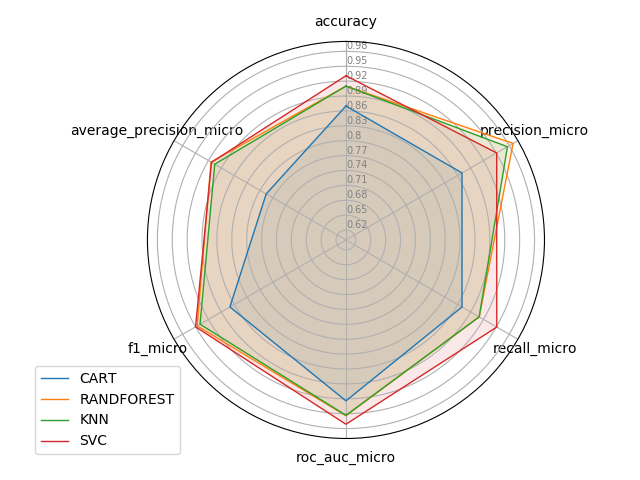
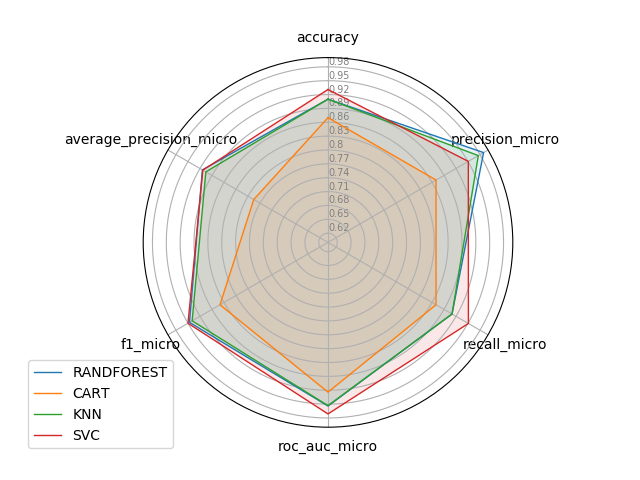
sembra andare tutto

Changed region(s): [[0.0312, 0.0312, 0.9375, 0.9688]]

diff --git a/training.py b/training.py
@@ -519,52 +519,52 @@ def training_classificator(X, Y, name_models, scoring, k=[5], list_n_trees=[10],
                                                            mean=mean)
         best_total_score = scoringUtils.hmean_scores(scoring, best_scores)
         for key, value in best_scores.items():
-            fl.writelines([str(key) + "_CART " + str(value) + "\n"])
-        fl.writelines(["total_score_CART " + str(best_total_score) + "\n"])
+            fl.writelines([str(key) + "_" + str(__init__.dec_tree) + " " + str(value) + "\n"])
+        fl.writelines(["total_score_" + str(__init__.dec_tree) + " " + str(best_total_score) + "\n"])
     if __init__.rand_forest in name_models:
         best_n_trees, best_max_features, best_scores, best_total_score = \
             RANDOMFOREST_training(X, Y, list_n_trees, scoring, seed, n_split, mean)
         fl.writelines(["best_n_trees " + str(best_n_trees) + "\n", "best_max_features " +
                        str(best_max_features) + "\n"])
         for key, value in best_scores.items():
-            fl.writelines([str(key) + "_RF " + str(value) + "\n"])
-        fl.writelines(["total_score_RF " + str(best_total_score) + "\n"])
+            fl.writelines([str(key) + "_" + str(__init__.rand_forest) + " " + str(value) + "\n"])
+        fl.writelines(["total_score_" + str(__init__.rand_forest) + " " + str(best_total_score) + "\n"])
     if __init__.knn in name_models:
         best_k, best_scores, best_total_score = KNN_training(X, Y, k, scoring, seed, n_split, mean)
         fl.writelines(["best_k " + str(best_k) + "\n"])
         for key, value in best_scores.items():
-            fl.writelines([str(key) + "_KNN " + str(value) + "\n"])
-        fl.writelines(["total_score_KNN " + str(best_total_score) + "\n"])
+            fl.writelines([str(key) + "_" + str(__init__.knn) + " " + str(value) + "\n"])
+        fl.writelines(["total_score_" + str(__init__.knn) + " " + str(best_total_score) + "\n"])
     if __init__.svc in name_models:
         best_C, best_degree, best_gamma, best_kernel, best_scores, best_total_score = \
             SVC_training(X, Y, scoring, seed, n_split, mean)
         fl.writelines(["best_C " + str(best_C) + "\n", "best_degree " + str(best_degree) + "\n", "best_gamma " +
                        str(best_gamma) + "\n", "best_kernel " + str(best_kernel) + "\n"])
         for key, value in best_scores.items():
-            fl.writelines([str(key) + "_SVC " + str(value) + "\n"])
-        fl.writelines(["total_score_SVC " + str(best_total_score) + "\n"])
-    if __init__.dec_tree in name_models:
+            fl.writelines([str(key) + "_" + str(__init__.svc) + " " + str(value) + "\n"])
+        fl.writelines(["total_score_" + str(__init__.svc) + " " + str(best_total_score) + "\n"])
+    if __init__.dec_tree_regressor in name_models:
         model = DecisionTreeRegressor(random_state=seed)
         best_scores = scoringUtils.K_Fold_Cross_validation(model, X, Y, scoring, seed=seed, n_split=n_split,
                                                            mean=mean)
         best_total_score = scoringUtils.hmean_scores(scoring, best_scores)
         for key, value in best_scores.items():
-            fl.writelines([str(key) + "_CARTRegr " + str(value) + "\n"])
-        fl.writelines(["total_score_CARTRegr " + str(best_total_score) + "\n"])
+            fl.writelines([str(key) + "_" + str(__init__.dec_tree_regressor) + " " + str(value) + "\n"])
+        fl.writelines(["total_score_" + str(__init__.dec_tree_regressor) + " " + str(best_total_score) + "\n"])
     if __init__.rand_forest_regressor in name_models:
         best_n_trees, best_max_features, best_scores, best_total_score = \
             RANDOMFORESTRegressor_training(X, Y, list_n_trees, scoring, seed, n_split, mean)
         fl.writelines(["best_n_trees " + str(best_n_trees) + "\n", "best_max_features " +
                        str(best_max_features) + "\n"])
         for key, value in best_scores.items():
-            fl.writelines([str(key) + "_RFRegr " + str(value) + "\n"])
-        fl.writelines(["total_score_RFRegr " + str(best_total_score) + "\n"])
+            fl.writelines([str(key) + "_" + str(__init__.rand_forest_regressor) + " " + str(value) + "\n"])
+        fl.writelines(["total_score_" + str(__init__.rand_forest_regressor) + " " + str(best_total_score) + "\n"])
     if __init__.knr in name_models:
         best_k, best_scores, best_total_score = KNR_training(X, Y, k, scoring, seed, n_split, mean)
         fl.writelines(["best_k " + str(best_k) + "\n"])
         for key, value in best_scores.items():
-            fl.writelines([str(key) + "_KNR " + str(value) + "\n"])
-        fl.writelines(["total_score_KNR " + str(best_total_score) + "\n"])
+            fl.writelines([str(key) + "_" + str(__init__.knr) + " " + str(value) + "\n"])
+        fl.writelines(["total_score_" + str(__init__.knr) + " " + str(best_total_score) + "\n"])
     if __init__.svr in name_models:
         best_C, best_eps, best_degree, best_gamma, best_kernel, best_scores, best_total_score = \
             SVR_training(X, Y, scoring, seed, n_split, mean)
@@ -572,8 +572,8 @@ def training_classificator(X, Y, name_models, scoring, k=[5], list_n_trees=[10],
                        str(best_degree) + "\n", "best_gamma " + str(best_gamma) + "\n", "best_kernel " +
                        str(best_kernel) + "\n"])
         for key, value in best_scores.items():
-            fl.writelines([str(key) + "_SVR " + str(value) + "\n"])
-        fl.writelines(["total_score_SVR " + str(best_total_score) + "\n"])
+            fl.writelines([str(key) + "_" + str(__init__.svr) + " " + str(value) + "\n"])
+        fl.writelines(["total_score_" + str(__init__.svr) + " " + str(best_total_score) + "\n"])
 
     fl.close()
 
@@ -644,7 +644,7 @@ def build_models(name_models, file_name):
     return models
 
 
-def read_best_scores(name_models, file_name):
+def read_setting(file_name):
     """
     Return the best scoring of a test
     :param name_models:
@@ -654,51 +654,17 @@ def read_best_scores(name_models, file_name):
 
     path = os.path.abspath('')
     fl = open(path + model_settings_dir + file_name, "r")  # aggiungere path
-    best_scoring = {}
+    setting = {}
     while 1:
         line = fl.readline()
         line = line[:-1]
         if len(line) == 0:
             break
         parameter, value = str.split(line, " ")
-        best_scoring[parameter] = value
+        setting[parameter] = value
 
-    return best_scoring
+    return setting
 
-
-
-def training_regressor(X, Y, name_models, scoring, k=[5], list_n_trees=[10], seed=111, n_split=10, mean=True,
-                       file_name="best_setting.txt"):
-    """
-    Write on file the best setting for the specific dataset. Every line of file contains "the name of the parameter"
-    + " " + "the value of parameter"
-    :param file_name: name of file with the best setting
-    :param mean: True if you want the mean in the K_fold_cross_validation, False if you want all the scores of the fold
-    :param n_split: number of fold
-    :param X: features set
-    :param Y: label set
-    :param name_models:list, lista nomi modelli
-    :param scoring: dict,dizionario di scoring
-    :param k: list,lista dei possibili k per KNN
-    :param list_n_trees: list,lista dei possibili numeri di alberi per il random forest
-    :param seed: int,seme per generatore pseudocasuale
-    """
-    path = os.path.abspath('')
-    fl = open(path + model_setting_test_dir + file_name, "w")
-    fl.writelines(["seed " + str(seed) + "\n", "n_split " + str(n_split) + "\n"])
-    if __init__.rand_forest in name_models:
-        best_n_trees, best_max_features = RANDOMFOREST_training(X, Y, list_n_trees, scoring, seed, n_split, mean)
-        fl.writelines(["best_n_trees " + str(best_n_trees) + "\n", "best_max_features " +
-                       str(best_max_features) + "\n"])
-    if __init__.knn in name_models:
-        best_k = KNN_training(X, Y, k, scoring, seed, n_split, mean)
-        fl.writelines(["best_k " + str(best_k) + "\n"])
-    if __init__.svc in name_models:
-        best_C, best_degree, best_gamma, best_kernel = SVC_training(X, Y, scoring, seed, n_split, mean)
-        fl.writelines(["best_C " + str(best_C) + "\n", "best_degree " + str(best_degree) + "\n", "best_gamma " +
-                       str(best_gamma) + "\n", "best_kernel " + str(best_kernel) + "\n"])
-
-    fl.close()
 
 def is_a_classification_dataset(dataset_name):
     if dataset_name in __init__.list_classification_dataset:
@@ -799,15 +765,19 @@ if __name__ == '__main__':
     seed = 100
     name_models_classification = [__init__.rand_forest, __init__.dec_tree, __init__.knn, __init__.svc]
     name_models_regression = [__init__.rand_forest_regressor, __init__.dec_tree_regressor, __init__.knr, __init__.svr]
-    dataset_name = __init__.eye
-    classification=is_a_classification_dataset()
+    dataset_name = __init__.zoo
+    classification=is_a_classification_dataset(dataset_name)
     k_range = range(3, 21, 1)
     n_trees_range = range(5, 21, 1)
 
-    X, Y, scoring, name_setting_file, name_radar_plot_file = main.case_NaN_dataset(dataset_name, "mean", seed, 0.05, classification=classification)
+    X, Y, scoring, name_setting_file, name_radar_plot_file = \
+        main.case_full_dataset(dataset_name, standardize=False, normalize=False, classification=classification)
+    X, Y, scoring, name_setting_file, name_radar_plot_file = \
+        main.c(dataset_name, "mode", seed, 0.15, classification=classification)
+
     if classification:
         training_classificator(X, Y, name_models_classification, scoring, k=k_range, list_n_trees=n_trees_range, seed=seed,
                            n_split=10, mean=True, file_name=name_setting_file)
-    else :
+    else:
         training_classificator(X, Y, name_models_regression, scoring, k=k_range, list_n_trees=n_trees_range, seed=seed,
                            n_split=10, mean=True, file_name=name_setting_file)

diff --git a/main.py b/main.py
@@ -27,11 +27,26 @@ def testing(X, Y, models, scoring, seed, name_radar_plot_file):
         results.append(scores)
         list_scores.append(scores)
         list_names.append(name)
-        if printValue:
-            print(name)
-            print(scores)
-            print("total score =", scoringUtils.hmean_scores(scoring, scores))
+    if printValue:
+        print(list_names)
+        print(list_scores)
+        print("total score =", scoringUtils.hmean_scores(scoring, scores))
     scoringUtils.radar_plot(list_names, scoring, list_scores, file_name=name_radar_plot_file)
+
+
+def create_radar_plot_istance(name_models, scoring, setting_file_name, radar_plot_file_name):
+
+    list_scores = []
+    list_names = []
+    setting = training.read_setting(setting_file_name)
+    for m in name_models:
+        scores = {}
+        for s in scoring:
+            scores[s] = float(setting[s + "_" + m])
+        list_names.append(m)
+        list_scores.append(scores)
+
+    scoringUtils.radar_plot(list_names, scoring, list_scores, file_name=radar_plot_file_name)
 
 
 def case_full_dataset(dataset_name, standardize=False, normalize=False, classification=True):
@@ -144,8 +159,7 @@ def create_radar_plot(dataset_names, name_models):
                     continue
                 X, Y, scoring, name_setting_file, name_radar_plot_file = \
                     case_full_dataset(dataset_name, standardize=stand, normalize=norm)
-                models = training.build_models(name_models, name_setting_file)
-                testing(X, Y, models, scoring, seed, name_radar_plot_file)
+                create_radar_plot_istance(name_models, scoring, name_setting_file, name_radar_plot_file)
 
 
 def create_radar_plot_NaN(dataset_names, name_models, percentuals_NaN):
@@ -190,8 +204,7 @@ def create_radar_plot_NaN_cycle(dataset_name, name_models, percentuals_NaN, stra
         for strategy in strategies:
             X, Y, scoring, name_setting_file, name_radar_plot_file = \
                 case_NaN_dataset(dataset_name, strategy=strategy, seed=seed, perc_NaN=perc_NaN)
-            models = training.build_models(name_models, name_setting_file)
-            testing(X, Y, models, scoring, seed, name_radar_plot_file)
+            create_radar_plot_istance(name_models, scoring, name_setting_file, name_radar_plot_file)
 
 
 if __name__ == '__main__':
@@ -212,3 +225,5 @@ if __name__ == '__main__':
     # Regression
     create_radar_plot(dataset_names_regression, name_models_regression)
     create_radar_plot_NaN(dataset_names_regression, name_models_regression, percentuals_NaN)
+
+    # create_radar_plot_NaN([__init__.zoo], name_models_classification, percentuals_NaN)

diff --git a/scoringUtils.py b/scoringUtils.py
@@ -114,6 +114,7 @@ def radar_plot(name_models, dict_name_scoring, list_dict_scores, file_name="rada
                 dict[value].append(list_dict_scores[i][value])
             else:
                 dict[str(value)[12:-1]].append(list_dict_scores[i][str(value)[12:-1]])
+
     df = pd.DataFrame(dict)
 
     # ------- PART 1: Create background
@@ -138,7 +139,8 @@ def radar_plot(name_models, dict_name_scoring, list_dict_scores, file_name="rada
 
     # Draw ylabels
     ax.set_rlabel_position(0)
-    plt.yticks([0.62, 0.65, 0.68, 0.71, 0.74, 0.77, 0.8, 0.83, 0.86, 0.89, 0.92, 0.95, 0.98], [str(i) for i in [0.62, 0.65, 0.68, 0.71, 0.74, 0.77, 0.8, 0.83, 0.86, 0.89, 0.92, 0.95, 0.98]], color="grey", size=7)
+    plt.yticks([0.62, 0.65, 0.68, 0.71, 0.74, 0.77, 0.8, 0.83, 0.86, 0.89, 0.92, 0.95, 0.98],
+               [str(i) for i in [0.62, 0.65, 0.68, 0.71, 0.74, 0.77, 0.8, 0.83, 0.86, 0.89, 0.92, 0.95, 0.98]], color="grey", size=7)
     plt.ylim(0.6, 1)
 
     # ------- PART 2: Add plots
@@ -154,7 +156,8 @@ def radar_plot(name_models, dict_name_scoring, list_dict_scores, file_name="rada
 
     # Add legend
     plt.legend(bbox_to_anchor=(0.1, 0.2))
-    plt.show()
+
+    # plt.show()
     path = os.path.abspath('')
     fig.savefig(path+radar_plot_dir+file_name+file_format)
     plt.close(fig)
